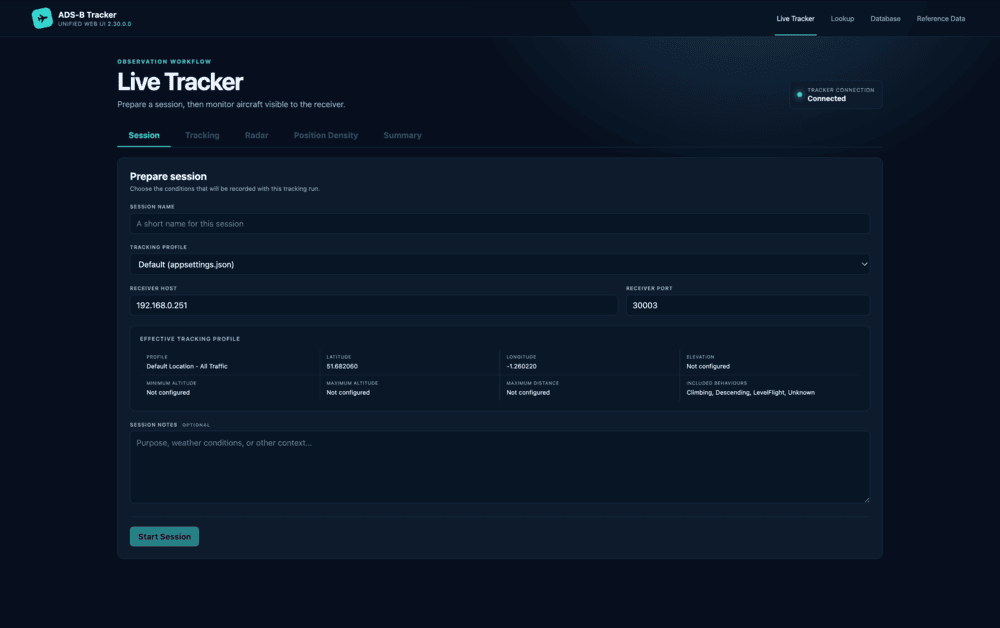
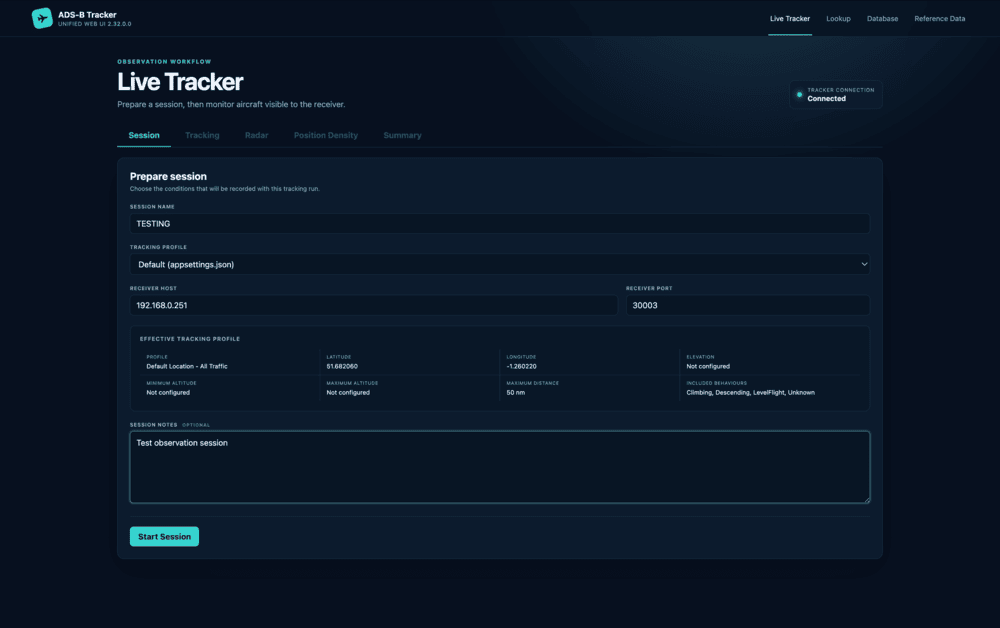
Documentation and diagram updates

diff --git a/README.md b/README.md
@@ -21,34 +21,49 @@ Core tracking does not depend on a commercial flight-tracking service. External 
 
 ## Features
 
-The project currently supports:
+The project currently supports the following groups of features.
 
-- **Session-based aircraft observation** from a BaseStation-compatible TCP message feed
-- **Observation-session preparation** with receiver host and port, tracking-profile selection and optional contextual notes
-- **Live aircraft tracking, receiver-centred radar and session position-density visualisation**, with optional persistence of density snapshots for later replay
-- **Read-only session summaries** covering tracking activity, identification coverage and session highlights
-- **Configurable tracking profiles** based on receiver location, altitude, distance and aircraft behaviour
-- **Local SQLite persistence** of observation sessions, aircraft records and optional position histories
-- **Integrated browser-based UI** organised around live observation, contextual aviation information and reference-data management
-- **Historical observation browsing** with dedicated session, session-editor and tracking-record views, filtering and record inspection
-- **Historical session management** with notes-only editing and confirmed deletion while no observation session is active
-- **Post-session analysis** available directly from the session browser
-- **Historical reporting suite** implemented using Jupyter notebooks for session, aircraft, flight, position-density, reference-data and temporal analysis
-- **Interactive live radar plus 2D and 3D flight-path visualisation**
-- **Tabbed contextual lookup workspace** for aircraft and flights, airport schedules, route visualisation and METAR/TAF weather
-- **Reference-data management and CSV import** for:
-  - Airlines
-  - Manufacturers
-  - Aircraft models
-  - Aircraft
-  - Airports
-  - Flight-number and callsign mappings
-- **First-class data provenance** for imported reference datasets
-- **Aircraft and callsign exclusion management**
-- **SignalR live updates** for the integrated UI and compatible external clients
-- **Console-based tracking** for lightweight and headless environments
-- **ADS-B simulation** for development and testing without live radio traffic
-- **Docker support** for containerised deployment
+### Observation and Live Tracking
+
+- Session-based observation from a BaseStation-compatible TCP message feed
+- Session preparation with a name, optional notes, receiver endpoint and tracking-profile selection
+- Configurable receiver location, altitude and distance limits, and aircraft-behaviour filters
+- Live aircraft telemetry, lifecycle state and identification coverage
+- Receiver-centred radar and accumulated position-density visualisation
+- Read-only live and completed-session summaries
+
+### Persistence, History and Analysis
+
+- Local SQLite storage of observation sessions, aircraft records and optional position histories
+- Optional persistence and later replay of position-density snapshots
+- Durable, file-backed serial writing with deferred flushing and a standalone Spool Replayer
+- Historical session and tracking-record browsing with filters and detailed record inspection
+- Post-session analysis, 2D and 3D flight-path visualisation, and session management
+- A read-only Jupyter reporting suite covering sessions, aircraft, flights, positions, density development, reference-data coverage and temporal activity
+
+### Lookup and Operational Context
+
+- Aircraft and flight lookup using local reference data first
+- Optional transient external lookups without persisting returned business data
+- Airport schedules, route visualisation, and METAR and TAF weather
+- Context-preserving links between live aircraft, historical records, schedules, routes and weather
+
+### Reference Data and Governance
+
+- Searchable and editable local records for aircraft, airlines, airports, flights, manufacturers and aircraft models
+- CSV import for each supported reference-data type
+- First-class provenance recording for imported and manually maintained reference data
+- Aircraft-address and callsign exclusion management
+- Licence-conscious separation of direct observations, derived values, persistent local reference data and transient external context
+
+### Applications, Integration and Deployment
+
+- Integrated browser-based Tracker Hub for observation, investigation and reference-data workflows
+- SignalR live updates for the integrated UI and compatible external clients
+- Console tracker for lightweight, headless and small-screen environments
+- ADS-B simulator for development and testing without live radio traffic
+- Command-line lookup and data-import tooling
+- Docker support for containerised deployment
 
 ## Local-First Observation
 
@@ -95,6 +110,11 @@ Additional reference information used to make an observation more recognisable, 
 
 Locally managed reference data is preferred wherever possible. External API responses are treated as transient and are not used to populate or update the local reference database.
 
+> [!IMPORTANT]
+> Only import or retain data that you are permitted to store and reuse.
+>
+> The availability of an import, lookup or storage feature does not imply that data from a particular source may legally be persisted, transformed, redistributed or reused. Check the applicable licence and terms of service before importing or retaining third-party data.
+
 ## Data Provenance
 
 Imported reference data is associated with a provenance record identifying its source, dataset, version and licence.
@@ -121,7 +141,7 @@ The interface is organised around the natural workflow of an aircraft observer:
 
 The Live Tracker brings the active observation workflow together in five tabs:
 
-> Session &rarr; Tracking &harr; Radar &rarr; Position Density &rarr; Summary
+> Session &rarr; Tracking &harr; Radar &harr; Position Density &rarr; Summary
 
 - **Session** — set the receiver host and port, select a tracking profile, review the effective receiver and tracking limits, add optional notes, and start the session
 - **Tracking** — monitor the live aircraft collection, inspect current telemetry, and move directly to Lookup or historical records
@@ -129,7 +149,7 @@ The Live Tracker brings the active observation workflow together in five tabs:
 - **Position Density** — view the accumulated geographical distribution of recorded aircraft positions during the current session, with denser areas highlighted spatially
 - **Summary** — review the persisted session context, tracking activity, identification coverage, and notable observations
 
-Each session records the receiver host and port, a snapshot of the effective tracking profile, and the aircraft records created during that run. Receiver details initially default to the values configured in `appsettings` and then retain the last-used values until Tracker Hub is restarted. Session parameters become fixed when tracking starts; after the session has stopped, its notes can be updated through the Database Session Editor. When tracking stops, outstanding observations are persisted before the completed summary is displayed.
+Each session records its name and notes, the receiver host and port, a snapshot of the effective tracking profile, and the aircraft records created during that run. Receiver details initially default to the values configured in `appsettings` and then retain the last-used values until Tracker Hub is restarted. Observing parameters become fixed when tracking starts; after the session has stopped, its name and notes can be updated through the Database Session Editor. When tracking stops, outstanding observations may be flushed immediately or retained in the durable spool for later replay before the completed summary is displayed.
 
 ### Observation and Investigation
 
@@ -145,7 +165,7 @@ These views focus on aircraft currently being observed or previously recorded, a
 
 The Database opens on the **Sessions** tab. Sessions can be filtered using the recent-session selector or an unrestricted start-date range. Each row exposes its recorded context, including receiver host and port, provides session notes in a popup, opens the same analysis shown by the Live Tracker Summary tab, and links directly to the associated tracking records—even when the session is older than the recent-session dropdown.
 
-When no observation session is active, session results provide **Edit** and **Delete** actions. Edit opens **Session Editor**, where notes can be updated and the session can also be deleted. Deletion requires confirmation and removes the session together with its tracked-aircraft records and position histories. The editor and both actions are unavailable during an active session. The **Tracking Records** tab retains aircraft, callsign, session and telemetry filtering, along with links to detailed historical records.
+When no observation session is active, each result also provides **Edit** and **Delete** actions. Edit opens the session in **Session Editor**, which shows the fixed receiver and tracking-profile context while allowing its name and notes to be updated and saved. A session can be deleted either from the results table or the editor after confirming the action; its tracked-aircraft records, position histories and position-density snapshots are deleted with it. The editor and both actions are unavailable during an active session. The **Tracking Records** tab retains aircraft, callsign, session and telemetry filtering, along with links to detailed historical records.
 
 ### Operational Context
 
@@ -156,7 +176,7 @@ The **Lookup** area groups supporting aviation information into a single tabbed 
 - Route
 - Weather
 
-Links between these tools preserve their context—for example, a schedule result can be opened as a route or weather lookup. These workflows help explain what is being observed while remaining conceptually separate from the tracking data itself.
+Links between these tools preserve their context—for example, a schedule result can be opened as a route or weather lookup. Links from Live Tracker and Radar continue to open Aircraft and Flights with the relevant aircraft details populated. These workflows help explain what is being observed while remaining conceptually separate from the tracking data itself.
 
 ### Reference Data Management
 
@@ -174,8 +194,6 @@ The **Reference Data** area provides tools for maintaining the locally curated i
 
 The data management tabs allow search, editing, deletion and addition of reference data records. Each record remains linked to a provenance record describing its source. Reference data records remain searchable during live tracking, but cannot be added, changed or deleted until the session ends.
 
-The **Aircraft**, **Airlines**, **Airports** and **Flights** tabs allow search, editing, deletion and addition of reference data records. Each record remains linked to a provenance record describing its source. Reference data records remain searchable during live tracking, but cannot be added, changed or deleted until the session ends.
-
 This organisation reinforces the distinction between observed ADS-B data, transient contextual information and locally managed enrichment data.
 
 The same underlying tracking core can also be used through the console tracker or exposed headlessly through SignalR.
@@ -192,9 +210,9 @@ The reporting suite currently includes:
 - Aircraft Activity
 - Callsign & Flight Activity
 - Position & Flight Path Analysis
+- Position Density Replay
 - Reference Data Coverage
 - Temporal Activity
-- Position Density Replay
 
 Together these reports help answer questions such as:
 
@@ -204,17 +222,13 @@ Together these reports help answer questions such as:
 - Where are aircraft most commonly observed?
 - How complete is the local aviation reference database?
 - How have observation patterns changed over time?
-- How did the observed position-density pattern develop during a session?
+- How did position density develop during a particular session?
 
 Unlike the integrated UI, which focuses on operational awareness during an active observation session, the reporting suite is intended for historical analysis and exploration across many completed sessions.
 
 ## Deployment
 
-ADS-B Tracker supports several deployment styles:
-
-### Integrated UI
-
-The Tracker Hub hosts both the SignalR service and browser-based UI and is suitable for normal desktop or server-based operation.
+ADS-B BaseStation Reader supports several deployment styles:
 
 ### Docker
 
